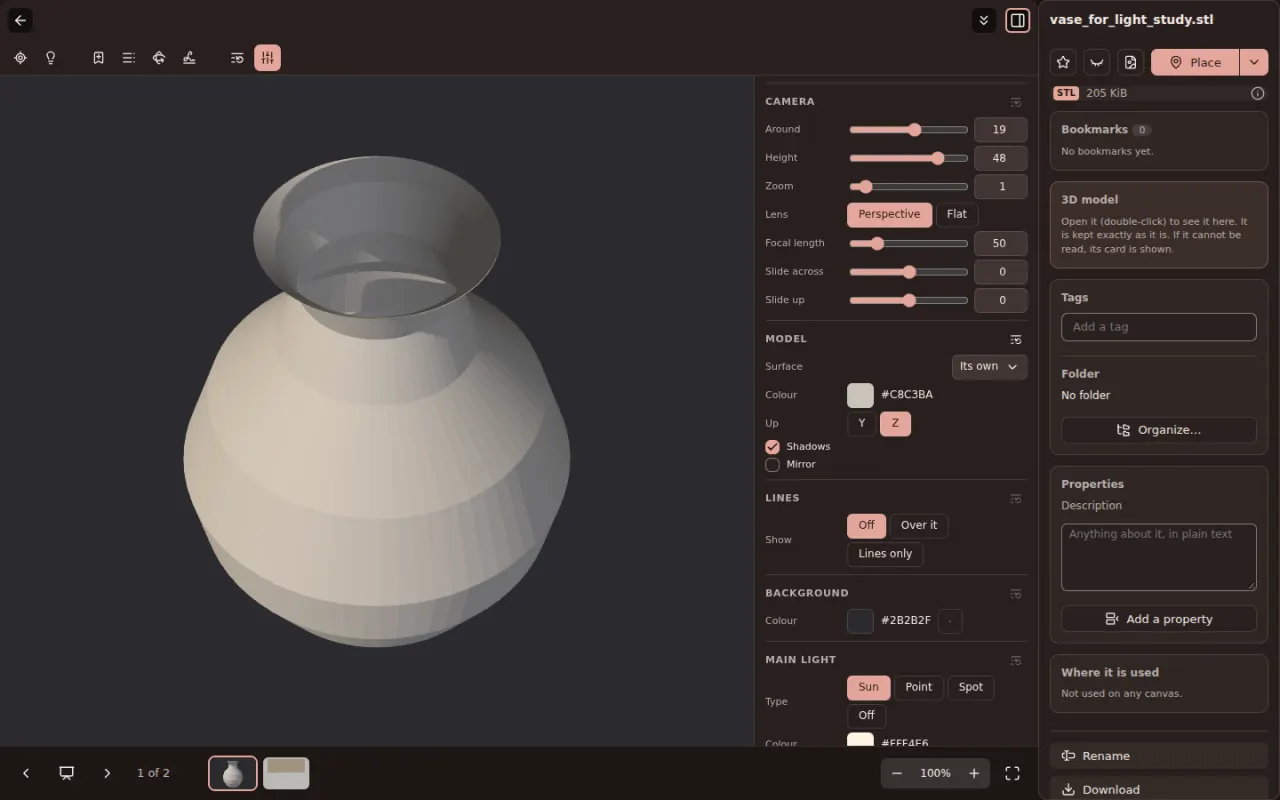
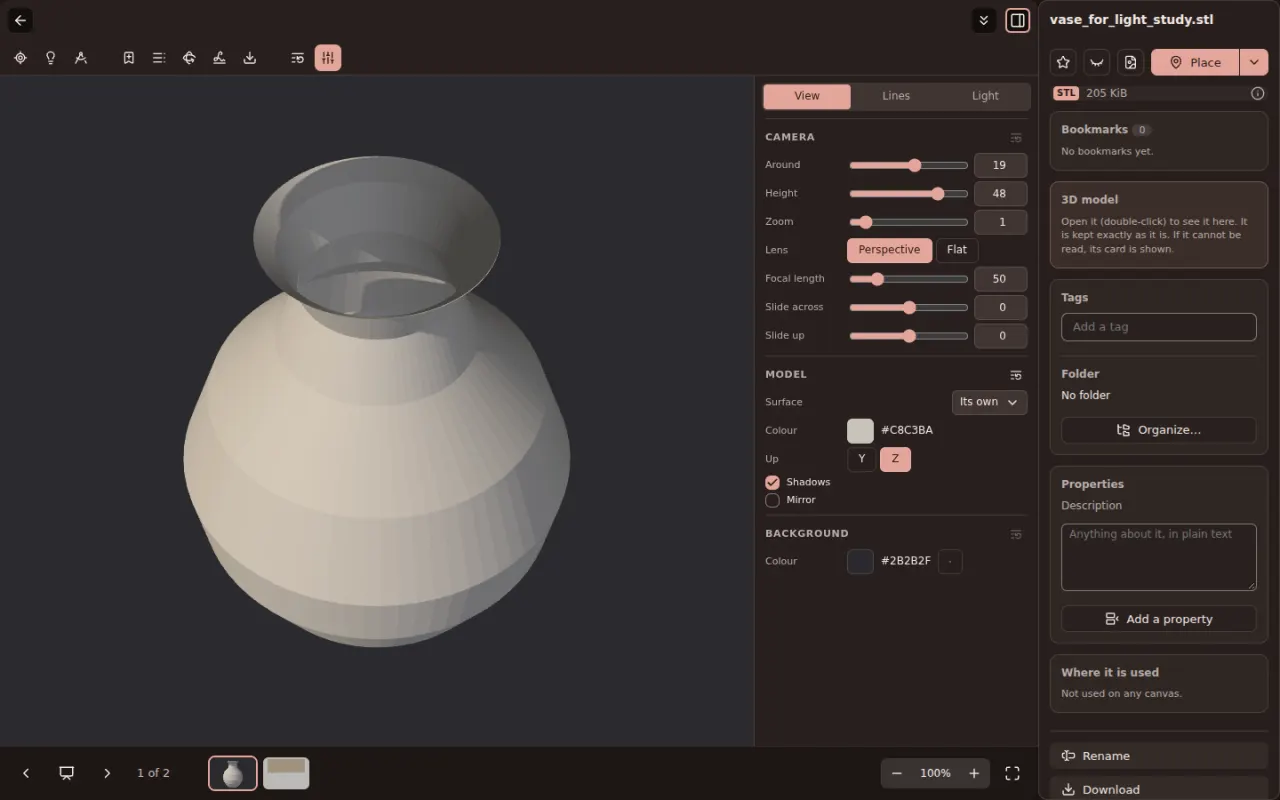
docs(3d): README brought up to date for 3D line art, its new pictures; the styles registry test knows 3D line styles
- README: the Library's summary, the Rendering section (3D models in their own view, lines in a worker), the platform limit, the source layout.
- Pictures taken on GitHub (Screenshots run 43293617829): model-view (now with its tabs), model-lines, model-line-styles. The phone picture is taken again without the menu over the model.
- tests/unit/styles.test.ts: the registry lists lines3d; a line style keeps only sound line values.

diff --git a/tests/shots/views.shot.ts b/tests/shots/views.shot.ts
@@ -97,16 +97,18 @@ test("model-view", async ({ scene: s }) => {
   await s.shot("model-view");
 });
 
-/** The vase open in its 3D view, turned a little to be seen from above, in a line style; the Lines tab shown. */
-async function vaseInLines(s: Scene, style: string): Promise<void> {
+/** The vase open in its 3D view, in a line style (turned a little to be seen from above, unless asked not to); the Lines tab shown. */
+async function vaseInLines(s: Scene, style: string, turn = true): Promise<void> {
   await s.p.locator('[data-testid="asset-card"][title="vase_for_light_study.stl"]').dblclick();
   const stage = s.p.locator('[data-testid="model-stage"][data-drawn]');
   await stage.waitFor({ timeout: 60_000 });
-  const box = (await stage.boundingBox())!;
-  await s.p.mouse.move(box.x + box.width / 2, box.y + box.height / 2);
-  await s.p.mouse.down();
-  await s.p.mouse.move(box.x + box.width / 2 + 40, box.y + box.height / 2 + 70, { steps: 8 });
-  await s.p.mouse.up();
+  if (turn) {
+    const box = (await stage.boundingBox())!;
+    await s.p.mouse.move(box.x + box.width / 2, box.y + box.height / 2);
+    await s.p.mouse.down();
+    await s.p.mouse.move(box.x + box.width / 2 + 40, box.y + box.height / 2 + 70, { steps: 8 });
+    await s.p.mouse.up();
+  }
   await s.p.getByTestId("view-styles").click();
   await s.p.getByRole("menuitem", { name: new RegExp(`^${style}`) }).click();
   await s.p.locator('[data-testid="model-stage"][data-inked="1"]').waitFor({ timeout: 60_000 });
@@ -135,9 +137,8 @@ test("model-narrow", async ({ scene: s }) => {
   await s.look({ theme: "light", hue: 178 });
   await files(s);
   await s.p.setViewportSize({ width: 390, height: 844 });
-  await vaseInLines(s, "Ink");
-  await s.p.getByTestId("view-more").click();
-  await expect(s.p.getByRole("menu", { name: "More of this view" })).toBeVisible();
+  await vaseInLines(s, "Ink", false);
+  await expect(s.p.getByTestId("view-more")).toBeVisible();
   await s.settle(400);
   await s.shot("model-narrow");
 });

diff --git a/tests/shots/manifest.ts b/tests/shots/manifest.ts
@@ -101,7 +101,7 @@ export const SHOTS: Record<string, ShotSpec> = {
   "model-view": { section: "#pdfs-and-3d-models", use: "Turn a simple 3D object under a light, as the start of a still-life lighting study.", alt: "A turned vase in the 3D view, lit from one side, its camera and surface settings beside it under the View tab" },
   "model-lines": { section: "#line-art-of-a-3d-model", use: "Draw a model as a technical illustration or a print: its outline, creases and the edges behind, with hatching or dots where the light does not fall.", alt: "The vase drawn as an etching in the 3D view: an ink outline, cross-hatched shadows on its dark side, on cream paper, with the Lines tab beside it" },
   "model-line-styles": { section: "#line-art-of-a-3d-model", use: "Give a model the look of a blueprint or a comic in one choice, and keep your own looks for other models.", alt: "The Line styles menu of the 3D view open over the vase: Blueprint, Ink, Architectural, Etching, Patent, Comic dots, Pencil and Toon, then Save these lines as a style", pointer: true },
-  "model-narrow": { section: "#line-art-of-a-3d-model", use: "Check a figure's pose on a phone: the model above, its settings below.", alt: "The 3D view on a phone: the vase in ink lines above, the Lines tab as a sheet under it, and the bar's other buttons in its ⋯ menu", pointer: true },
+  "model-narrow": { section: "#line-art-of-a-3d-model", use: "Check a figure's pose on a phone: the model above, its settings below.", alt: "The 3D view on a phone: the vase in ink lines above, the Lines tab as a sheet under it, and the bar's other buttons folded into its ⋯ button" },
   "import-choice": { section: "#importing-a-backup", use: "Bring a backup back: update this workspace, or add its boards beside what is here.", alt: "The How to import question over Settings, Storage: Update this workspace, and Add as new boards, each with what it does" },
 
   // The Library, details

diff --git a/tests/unit/styles.test.ts b/tests/unit/styles.test.ts
@@ -12,7 +12,15 @@ const lib = () => {
 
 describe("styles (ADR 0120)", () => {
   it("has one registry: each kind says how to check, say and show its data", () => {
-    expect(STYLE_KINDS.map((k) => k.id)).toEqual(["adjustment", "gradient", "colour", "palette", "text", "pattern", "balloon", "ratio", "export", "exportname"]);
+    expect(STYLE_KINDS.map((k) => k.id)).toEqual(["adjustment", "gradient", "colour", "palette", "text", "pattern", "balloon", "lines3d", "ratio", "export", "exportname"]);
+    // A 3D line style keeps only what lines are, each sound: an unknown key goes, a number past its range is held to it.
+    const lines = kindById("lines3d")!.validate({ linesShow: "only", linesWidth: 99, toneMode: "hatch", bogus: 1 }) as Record<string, unknown>;
+    expect(lines["linesWidth"]).toBe(8);
+    expect(lines["toneMode"]).toBe("hatch");
+    expect(lines).not.toHaveProperty("bogus");
+    expect(lines).not.toHaveProperty("yaw");
+    expect(kindById("lines3d")!.validate("ink")).toBeNull();
+    expect(kindById("lines3d")!.summary(lines)).toBe("Lines only · hatching");
     expect(kindById("ratio")!.validate(16 / 9)).toBeCloseTo(16 / 9);
     expect(kindById("ratio")!.validate(0)).toBeNull();
     expect(kindById("ratio")!.summary(16 / 9)).toBe("16 : 9");

diff --git a/README.md b/README.md
@@ -84,7 +84,7 @@ Collect drawings by different masters on one board to compare how each handles t
 | [**Reference boards**](#reference-boards) | Collect pictures, video and files on a canvas; crop, flip and adjust them without touching the files; lay them out on sheets by rules (auto layout); find what lies under what |
 | [**Drawing and vector editing**](#drawing-and-vector-editing) | Pressure pens, shapes, Bézier paths and node editing, boolean shapes, masks, gradients and pattern fills, 38 patterns and 55 composition guides, a colour picker for everything and saved styles, layers |
 | [**Comics and storyboards**](#comics-and-storyboards) | Pages and panels as sheets with real ratios, speech balloons with tails and connectors, rich text with your own fonts, pages exported to PDF |
-| [**The Library**](#the-library) | Every file once, in folders and tags, with a search that knows sizes, ratios, colours and dates, a viewer, previews of art files, PDFs and 3D models, similar images and safe deletion |
+| [**The Library**](#the-library) | Every file once, in folders and tags, with a search that knows sizes, ratios, colours and dates, a viewer, previews of art files, PDFs and 3D models (lit, or drawn as line art), similar images and safe deletion |
 | [**Notes**](#notes) | Markdown, text and rich text notes in a full editor, with `[[links]]`, backlinks, properties, templates, and cards on a canvas |
 | [**Exporting and sharing**](#exporting-and-sharing) | PNG, WebP, JPEG, SVG and PDF at any size; copy to other apps; share the workspace on your local network |
 | [**The endless canvas**](#the-endless-canvas) | No edge and no zoom limit; bookmarks, tours and camera travel between far places; exact positions at any depth |
@@ -1028,7 +1028,7 @@ Give a model the look of a blueprint or a comic in one choice, and keep your own
 
 Check a figure's pose on a phone: the model above, its settings below.
 
-![The 3D view on a phone: the vase in ink lines above, the Lines tab as a sheet under it, and the bar's other buttons in its ⋯ menu](docs/screenshots/model-narrow.webp)
+![The 3D view on a phone: the vase in ink lines above, the Lines tab as a sheet under it, and the bar's other buttons folded into its ⋯ button](docs/screenshots/model-narrow.webp)
 
 ### Art files
 
@@ -2385,7 +2385,7 @@ What canvast does not do today, for both versions, then each. **The limits that 
 
 | Area | Limitation |
 | --- | --- |
-| Rendering | Canvas 2D only, on the main thread; no GPU or WebGL path, no workers |
+| Rendering | The canvas is Canvas 2D only, on the main thread; no GPU or WebGL path, no workers (a 3D model draws with WebGL in its own view) |
 | Collaboration | Only looking: the desktop app shares a workspace read-only on the local network. Nobody can edit together; the single file never connects anywhere |
 
 ### The browser version
@@ -2483,6 +2483,7 @@ Rendering is CPU-first **Canvas 2D**.
 | Pictures at their shown size | A big picture (a photo, a long note's page) is drawn from a 512 px copy when it is small on the screen and from a 1024 px copy at a middle size; all its pixels are read only when it is shown big. Each copy is made once, then kept while memory allows. |
 | Deep zoom into any kind of object | Every kind has a sampler so its colour never disappears when the view is inside it. |
 | Text | Uses the browser's glyphs normally and the font's exact outlines past about 2,000 px per letter. |
+| 3D models | Drawn with WebGL (three.js) in their own view, not on the canvas, where a card shows a picture of a view. Their line art from the model's edges is worked out in a worker, a view at a time, and laid over the picture; the same drawing becomes placed paths and SVG files. |
 
 Measured on a CPU-only configuration with about 500 visible objects: 1.7 ms per frame (p50) with 10 thousand objects in the document, 2.2 ms with 100 thousand, 7.7–9.6 ms with one million.
 
@@ -2525,7 +2526,7 @@ src/
   scene/         multi-scale spatial index
   text/          font reading, Markdown model, layout
   interaction/   navigation, tools, snapping, pens, item stepping
-  assets/        content addressing, decoding, catalog, garbage collection
+  assets/        content addressing, decoding, catalog, garbage collection, 3D models and their line art
   storage/       IndexedDB, workspace repository, persistence, writer lease, ZIP, archives
   search/        boolean query parser and evaluator, canvas search keywords, recent and saved searches
   settings/      declared settings, scopes, rebindable shortcuts
